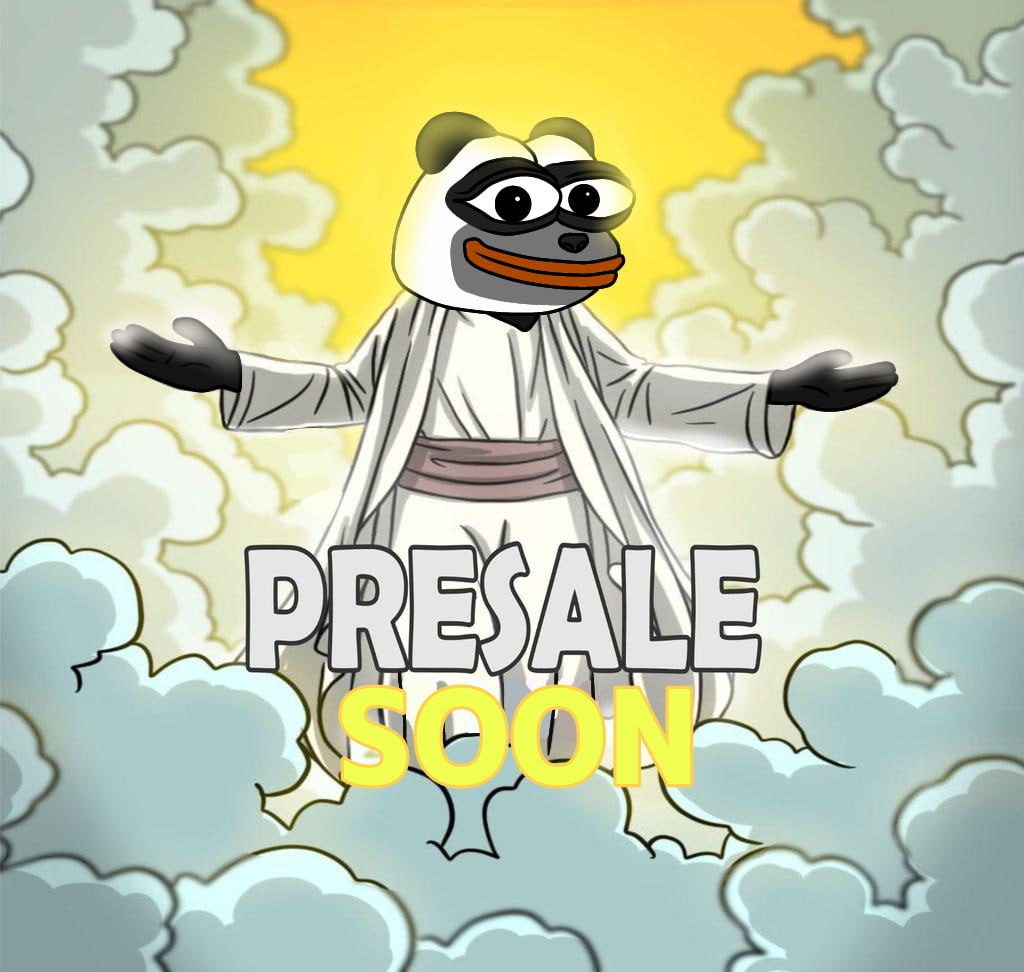
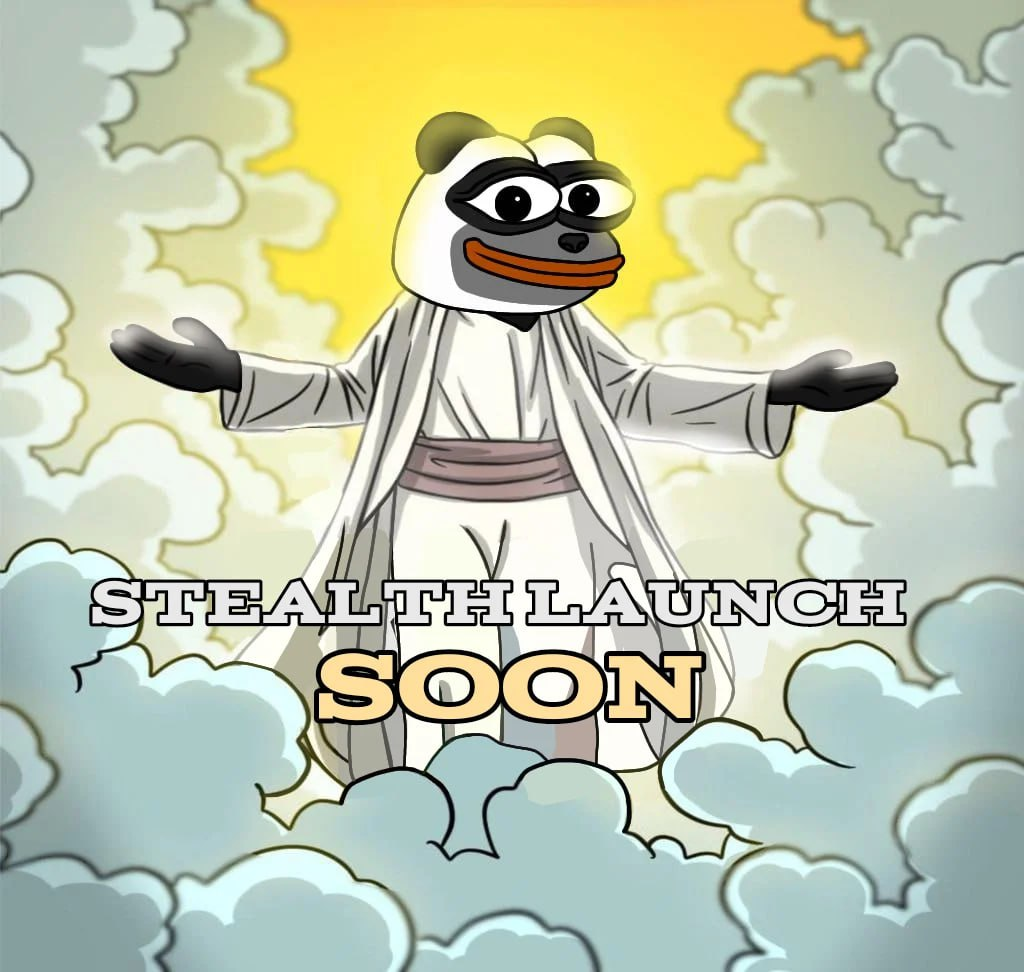
website changed

Changed region(s): [[0.0625, 0.5247, 0.9062, 0.8642], [0.7188, 0.7407, 0.75, 0.7716]]

diff --git a/index.html b/index.html
@@ -51,7 +51,7 @@
                <div class="flex flex-wrap items-center justify-between">
                     <div class="xl:w-1/2 lg:w-3/5 w-full lg:text-left text-center lg:order-1 order-2">
                          <h1 class="x-glitch xxl:text-7xl lg:text-6xl md:text-5xl xs:text-4xl text-3xl mb-4">Your games, your investment, our technology</h1>
-                         <p>Your all-in-one crypto ecosystem. Playing, Buying, Investing, and of course, Meme-ing, all under one hub - everything you need with PandaBRO. On Ethereum.</p>
+                         <p>Your all-in-one crypto ecosystem. Playing, Buying, Investing, and of course, Meme-ing, all under one hub - everything you need with PandaBRO. On TRON.</p>
                     </div>
                     <div class="lg:w-2/5 w-2/3 mx-auto lg:order-2 order-1">
                          <img src="assets/img/hero.jpg" alt="hero">
@@ -113,7 +113,7 @@
                <div class="flex flex-wrap w-full justify-between items-center bg-gradient-to-r from-orange-500 to-orange-400 rounded-md overflow-hidden">
                     <div class="md:w-2/3 w-full xl:px-20 xs:p-6 p-4">
                          <h2 class="md:text-4xl text-2xl uppercase md:mb-6 xs:mb-4 mb-2">PANDABRO</h2>
-                         <p class="lg:text-lg font-medium opacity-100">Hey, my name is Bro, and I am a panda. I live in a temperate forest on Ethereum. I am not a normal panda though; I am not lazy
+                         <p class="lg:text-lg font-medium opacity-100">Hey, my name is Bro, and I am a panda. I live in a temperate forest on TRON. I am not a normal panda though; I am not lazy
                               nor am I clumsy. In fact,
                               I am very active and smart. I am here to entertain you and help you make money. The utilities I offer is next to none in this space. Browse the website to understand the
                               difference between me, and other meme coins.</p>
@@ -130,12 +130,12 @@
                          <img src="assets/img/pandachat.png " alt="">
                     </div>
                     <div class="md:w-2/5 w-full flex flex-col sm:gap-y-4 gap-y-2">
-                         <a href="https://www.pinksale.finance/launchpad/ethereum/0xB0bF9b28d7aB607bE25F8d225b7851fcF1904451" target="_blank" class="x-btn">Presale</a>
+                         <button class="x-btn">Buy $BRO</button>
                          <button @click="buy=true" class="x-btn">How to buy</button>
                          <button class="x-btn">Chart - Soon</button>
                          <a href="https://pandabro.gitbook.io/pandabro" target="_blank" class="x-btn">Whitepaper</a>
-                         <a href="https://github.com/solidproof/Projects/tree/main/2024/PandaBro" target="_blank" class="x-btn">KYC</a>
-                         <a href="https://github.com/solidproof/Projects/blob/main/2024/PandaBro/SmartContract_Audit_Solidproof_PandaBro.pdf" target="_blank" class="x-btn">Audit</a>
+                         <a href="https://github.com/solidproof/Projects/tree/main/2024/PandaBro" target="_blank" class="x-btn">KYC - Using ETH CA</a>
+                         <a href="https://github.com/solidproof/Projects/blob/main/2024/PandaBro/SmartContract_Audit_Solidproof_PandaBro.pdf" target="_blank" class="x-btn">Audit - Using ETH CA</a>
                     </div>
                </div>
           </div>
@@ -198,7 +198,7 @@
                     out with other players to top the leaderboards and earn real money. Our play-to-earn model, in-game purchases, and NFT integrations ensure multiple ways to generate income while
                     enjoying your favorite games. We continuously release mini sample games to keep the excitement fresh, while also working on big Sega-style classics like Metal Slug, Virtua Fighter,
                     X-Men, Sonic R, and more. Get ready to compete, have fun, and make money with PandaBRO!</p>
-               <p class="md:mb-6 sm:mb-4 mb-2 text-center">WE ARE ALSO COLLABORATING WITH A GAMING GIANT. IT WILL BE ANNOUNCED DURING OUR PRESALE.</p>
+               <p class="md:mb-6 sm:mb-4 mb-2 text-center">WE ARE ALSO COLLABORATING WITH A GAMING GIANT. IT WILL BE ANNOUNCED SOON.</p>
                <div class="swiper gameSlide">
                     <div class="swiper-wrapper">
                          <div class="swiper-slide">
@@ -306,25 +306,19 @@
           <div class="x-container">
                <div class="flex flex-wrap items-center justify-between">
                     <div class="w-full text-center md:mb-9 mb-6">
-                         <h6 class="text-2xl mb-4">Ethereum</h6>
-                         <p><b>CA: </b>0xE146aAe98796db2e29Ae1881978E070D80EbDAac</p>
+                         <h6 class="text-2xl mb-4">TRON</h6>
+                         <!-- <p><b>CA: </b>0xE146aAe98796db2e29Ae1881978E070D80EbDAac</p> -->
                     </div>
                     <div class="md:w-1/2 w-full md:order-1 order-2 md:mt-0 mt-6">
-                         <h3 class="sm:text-3xl text-xl uppercase sm:mb-6 mb-3">Pandanomics</h3>
+                         <h3 class="sm:text-3xl text-xl uppercase sm:mb-6 mb-3">BRONOMICS</h3>
                          <ul class="space-y-2.5 sm:text-lg font-medium">
                               <li><span class="text-orange-500">1,000,000,000</span> <span>Total Supply</span></li>
-                              <li><span class="text-orange-500">40%</span> <span>Presale</span></li>
-                              <li><span class="text-orange-500">20%</span> <span>Liquidity</span></li>
-                              <li><span class="text-orange-500">10%</span> <span>Founders, Developers & Incentivising Team Building/Maintaining Project</span></li>
-                              <li><span class="text-orange-500">10%</span> <span>Marketing & Treasury, Collaboration</span></li>
-                              <li><span class="text-orange-500">5%</span> <span>Airdrops</span></li>
-                              <li><span class="text-orange-500">5%</span> <span>CEX</span></li>
-                              <li><span class="text-orange-500">5%</span> <span>Trading Pools ROI</span></li>
-                              <li><span class="text-orange-500">5%</span> <span>Rewards</span></li>
+                              <li><span class="text-orange-500">0%</span> <span>Tax</span></li>
+                              <li><span class="text-orange-500">100%</span> <span>Liquidity Burned</span></li>
                          </ul>
                     </div>
                     <div class="xl:w-2/5 md:w-1/2 w-full md:order-2 order-1">
-                         <canvas id="myChart"></canvas>
+                         <img src="assets/img/meme/meme-1.jpg" alt="meme">
                     </div>
                </div>
           </div>
@@ -347,7 +341,7 @@
                          </ul>
                     </div>
                     <div class="bg-stone-800/30 border border-stone-800 sm:px-4 px-2.5 sm:py-6 py-4 rounded-md">
-                         <h3 class="sm:text-xl text-lg font-sans font-bold uppercase sm:mb-4 mb-2">Phase 2- Presale Duration</h3>
+                         <h3 class="sm:text-xl text-lg font-sans font-bold uppercase sm:mb-4 mb-2">Phase 2- LAUNCH WEEK</h3>
                          <ul class="space-y-2.5 capitalize">
                               <li class="bg-stone-600/30 border border-stone-400 sm:py-1.5 py-1 sm:px-2.5 px-1.5 text-white/75 rounded-md">Meme competition starts</li>
                               <li class="bg-stone-600/30 border border-stone-400 sm:py-1.5 py-1 sm:px-2.5 px-1.5 text-white/75 rounded-md">Release 2d game samples</li>
@@ -395,7 +389,7 @@
                          hand that can make you more $? We introduce our 3 PandaBRO NFTs, which are a pivotal component of the ecosystem. With only 1000 NFTs ever to be minted, these digital assets
                          hold intrinsic value and serve as gateways to our games and trading pools. Investors can trade, stake, and hold PandaBRO NFTs, thereby unlocking substantial returns on
                          investment.</p>
-                    <p class="sm:mb-4 mb-2">During presale, we will reveal all 3 NFTs and showcase what they offer.</p>
+                    <p class="sm:mb-4 mb-2">During the first week post launch, we will reveal all 3 NFTs and showcase what they offer.</p>
                     <div class="flex flex-wrap justify-between">
                          <img class="w-1/3 max-w-72" src="assets/img/pandaq.png" alt="">
                          <img class="w-1/3 max-w-72" src="assets/img/pandaq.png" alt="">
@@ -408,7 +402,7 @@
      <section id="memes" class="sm:py-20 py-10">
           <div class="x-container">
                <h3 class="sm:text-3xl text-xl sm:mb-6 mb-3">THE MEME</h3>
-               <p class="sm:mb-4 mb-2">espite the wide attractive utilities PandaBRO offers, it is still a meme coin!....well, a comprehensive one.</p>
+               <p class="sm:mb-4 mb-2">Despite the wide attractive utilities PandaBRO offers, it is still a meme coin!....well, a comprehensive one.</p>
                <p class="sm:mb-4 mb-2">PandaBRO will offer plenty of different meme competitions post launch. It allows investors to become creative. Creating memes using Bro, the Panda, and
                     submitting it to us for a prize. You do not have to be a design guru to participate, some competitions will only require you to generate a meme using our logo, some others will
                     require to get out the artist within you and design the best meme/nft. More information to be released post launch.</p>
@@ -449,12 +443,12 @@
      </footer>
 
      <!-- PRELOADER -->
-     <section class="preloader fixed inset-0 w-full h-full flex items-center justify-center bg-black z-[99999]">
+     <!-- <section class="preloader fixed inset-0 w-full h-full flex items-center justify-center bg-black z-[99999]">
           <video class="max-w-screen-xs w-full" autoplay loop muted>
                <source src="assets/img/GIF.gif.mp4" type="video/mp4" />
                Your browser does not support the video tag.
           </video>
-     </section>
+     </section> -->
 
      <!-- POP UP -->
      <section x-cloak :class="buy?'opacity-100 visible':'opacity-0 invisible'" class="fixed inset-0 w-svw h-svh z-[9999] bg-black/70 backdrop-blur-sm px-2.5 x-animation">
@@ -467,7 +461,7 @@
                     <li>1. Download MetaMask on your phone or browser.</li>
                     <li>2. Purchase or bridge $ETH from an exchange or <a href="https://app.uniswap.org/swap" class="underline italic">Uniswap</a>.</li>
                     <li>3. Send it to your MetaMask wallet.</li>
-                    <li>4. Go on our <a href="https://www.pinksale.finance/launchpad/ethereum/0xB0bF9b28d7aB607bE25F8d225b7851fcF1904451" class="underline italic">PinkSale link</a>.</li>
+                    <li>4. Go on our <a href="https://www.pinksale.finance/launchpad/TRON/0xB0bF9b28d7aB607bE25F8d225b7851fcF1904451" class="underline italic">PinkSale link</a>.</li>
                     <li>5. Connect your MetaMask wallet.</li>
                     <li>6. Insert the amount of ETH you want to contribute and click "Buy with ETH".</li>
                </ul>
